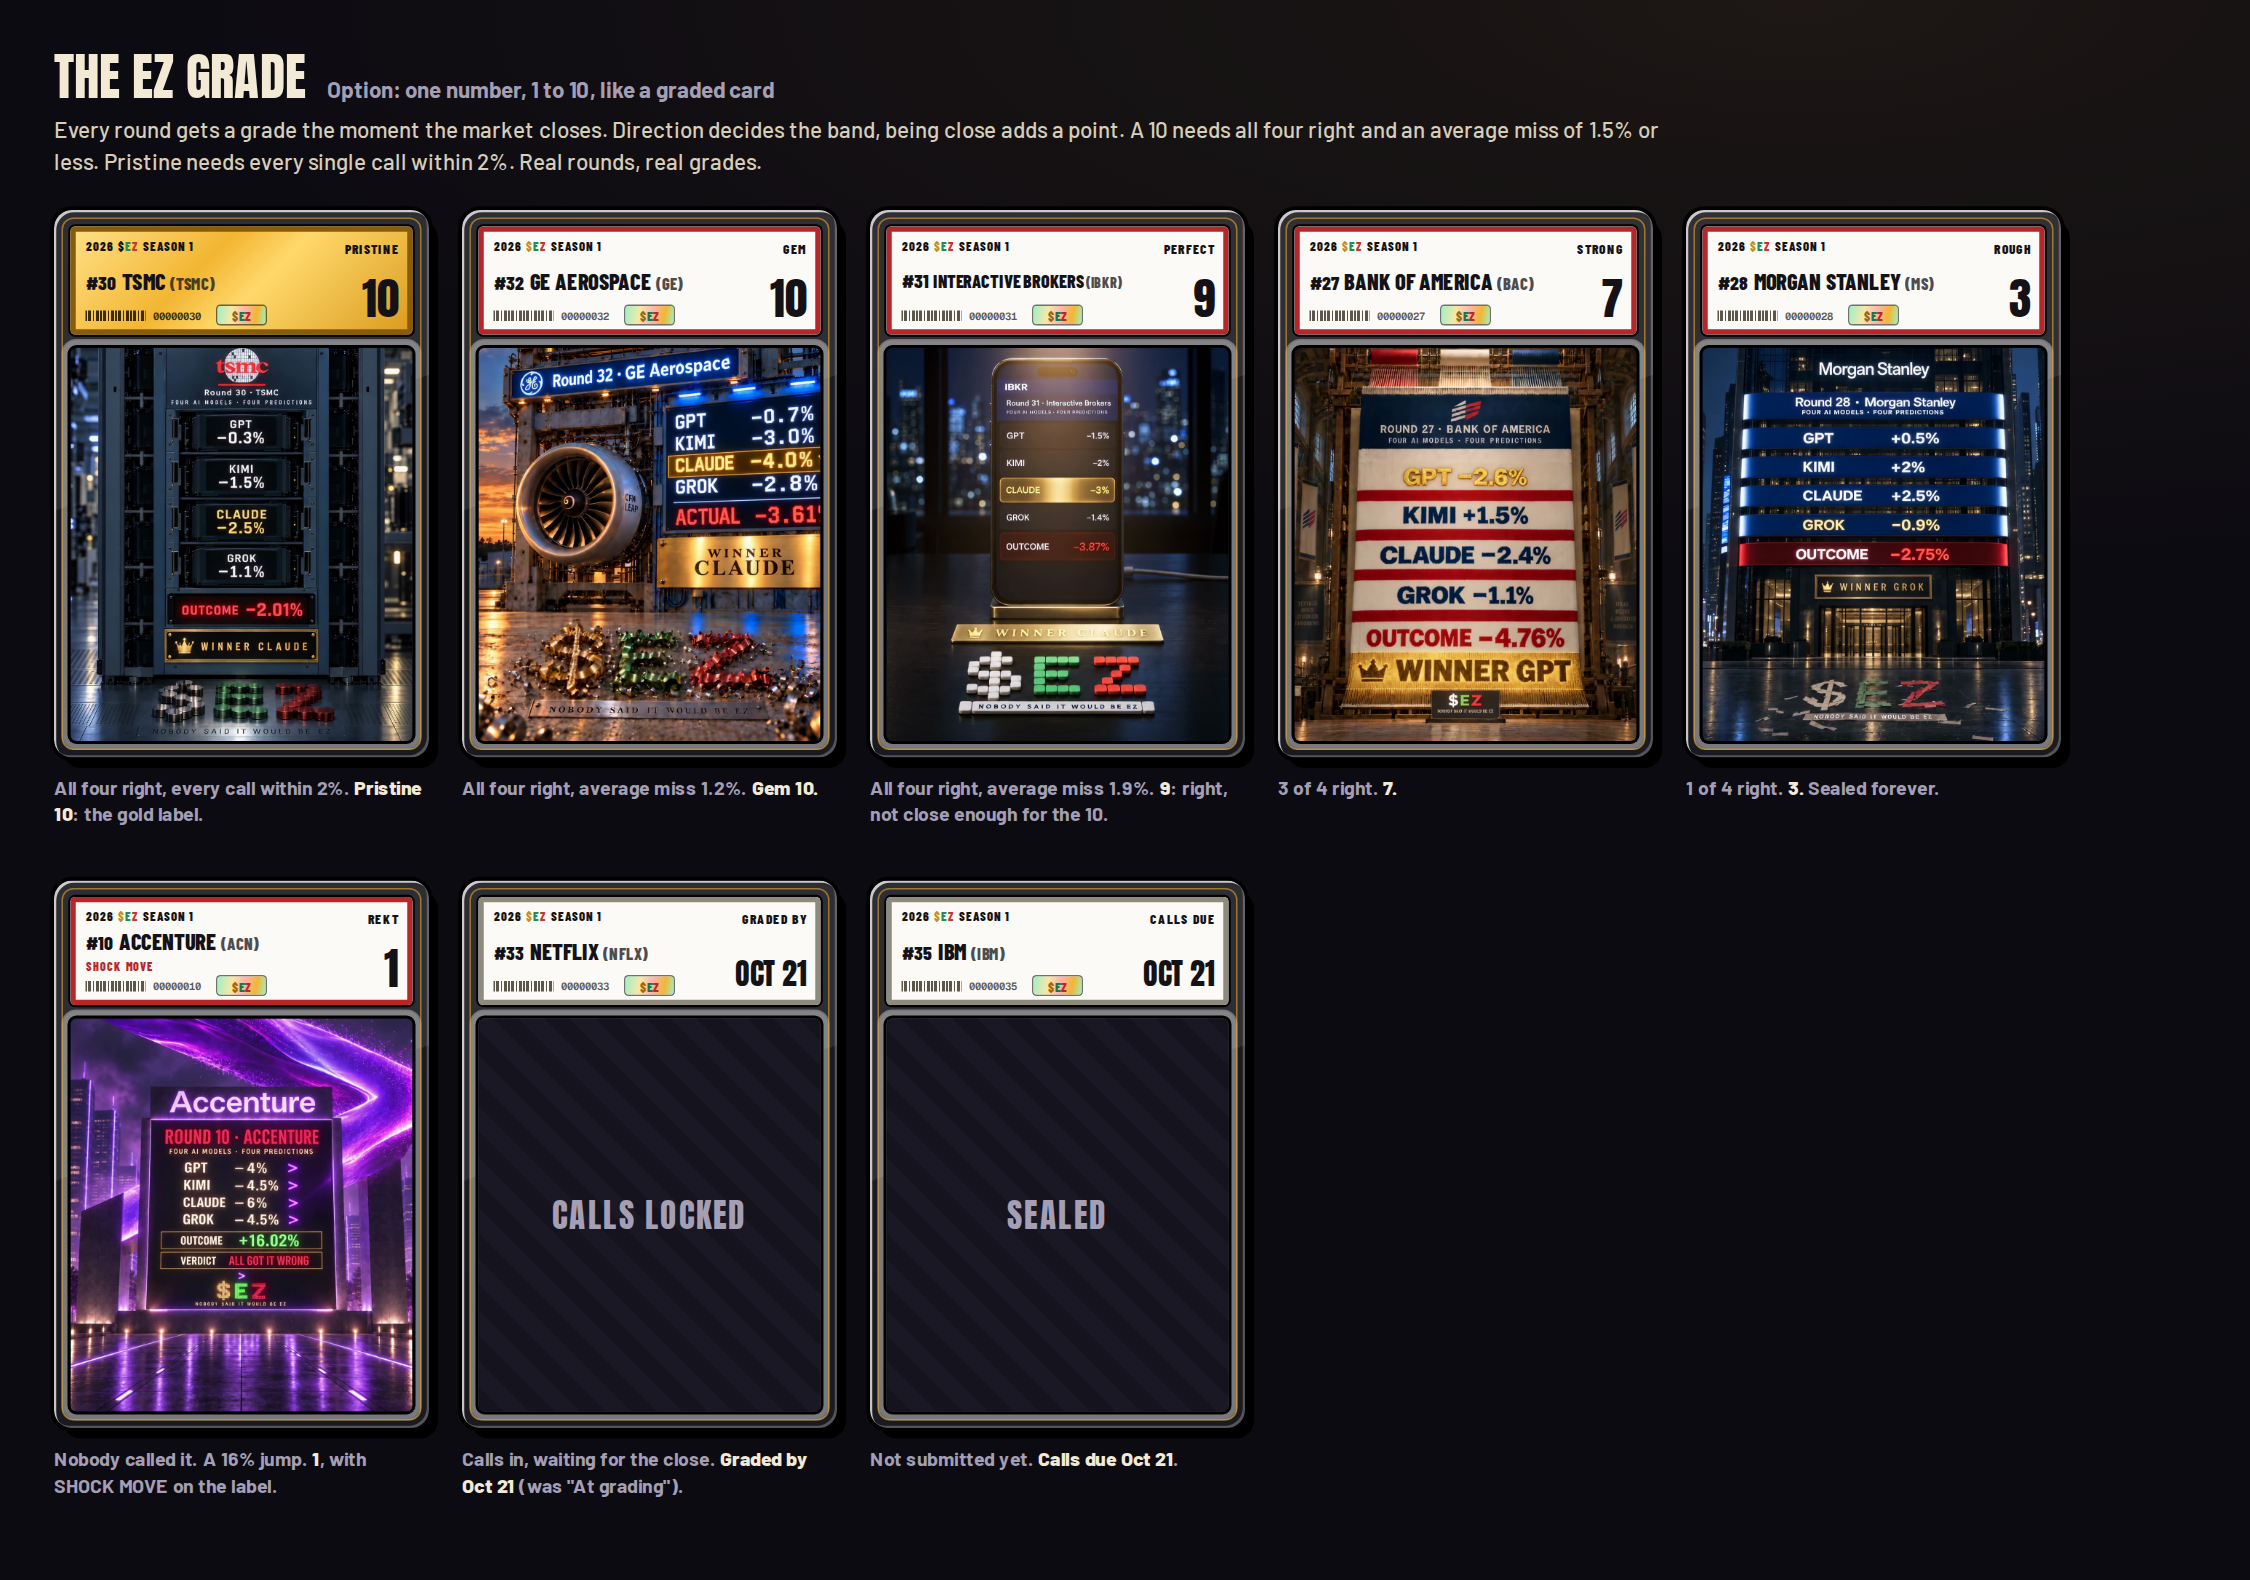
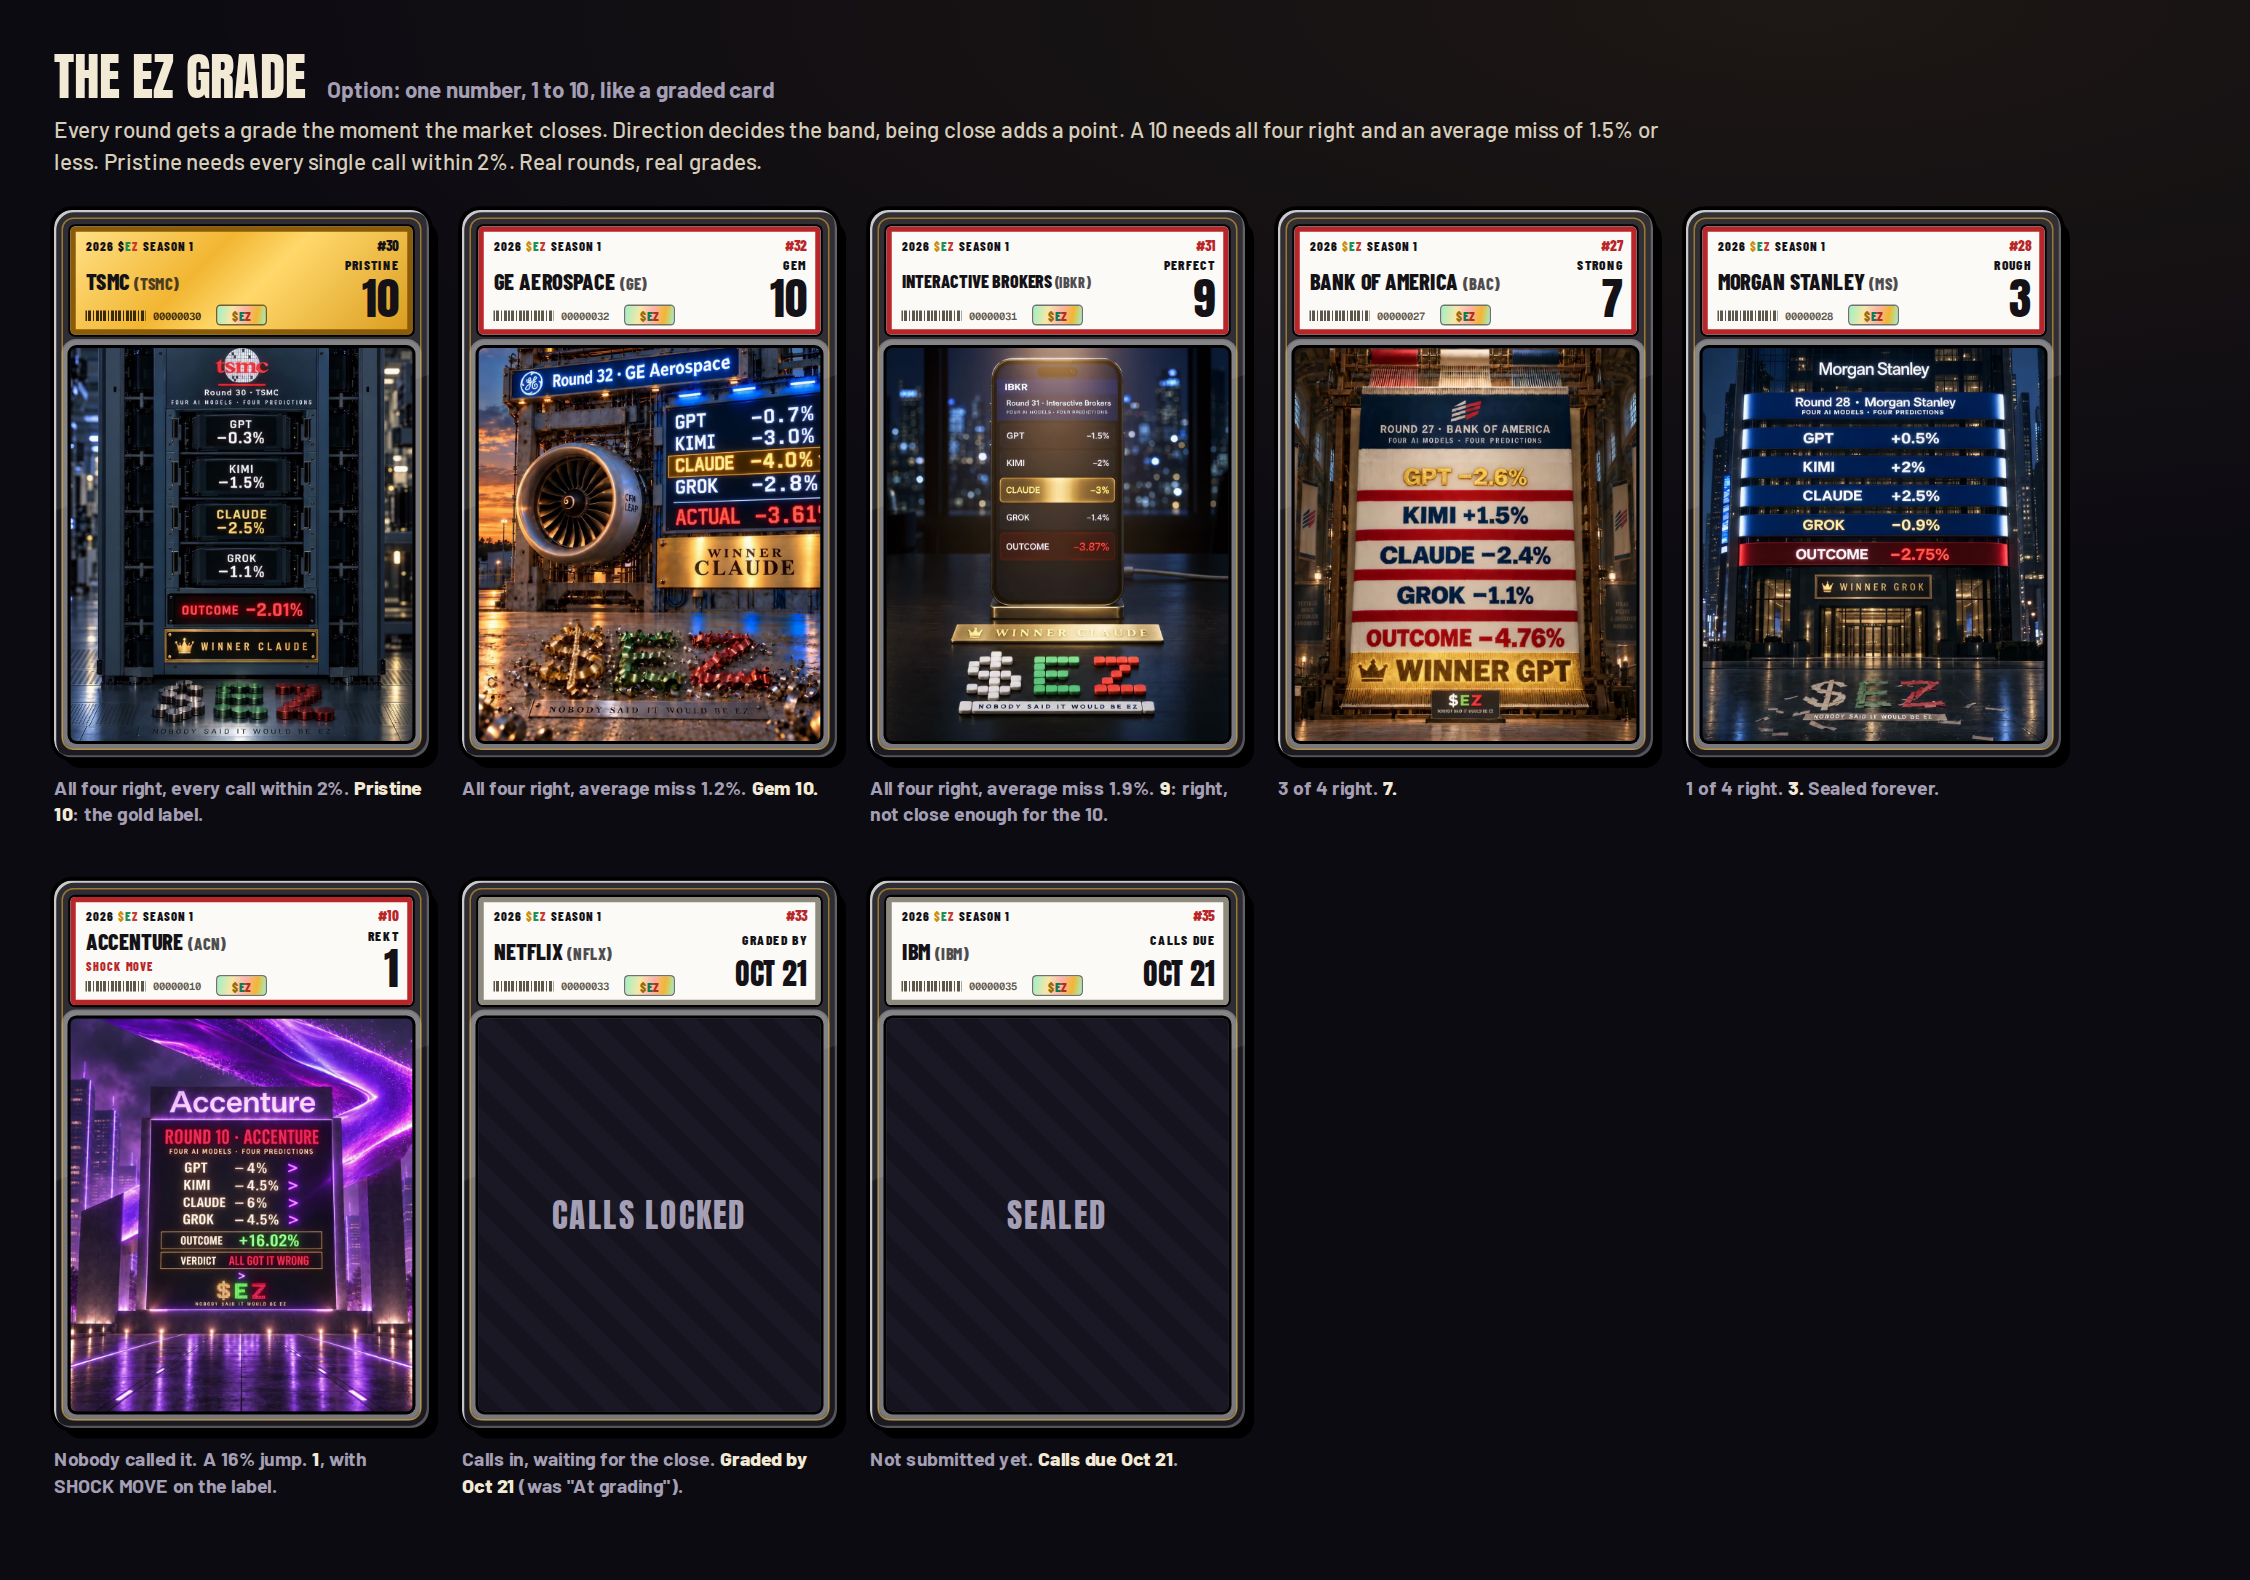
Grade mockup: round number back in the top right, grade word below it
Claude-Session: https://claude.ai/code/session_01KWvAje4hnkBCpPe6R47PoY

diff --git a/ez/tools/concepts/grade-mock.js b/ez/tools/concepts/grade-mock.js
@@ -45,7 +45,7 @@ const css=`${FONTS}*{box-sizing:border-box}body{margin:0;background:#0d0b12;colo
 .box{background:#15131d;border:2px solid #000;box-shadow:5px 6px 0 #000;padding:18px 20px}
 .r .gr.dt{font-size:20px;line-height:1}.r .ds{margin-top:2px}
 .l .nm.lg2{font-size:12px;letter-spacing:0}.l .nm.lg2 small{font-size:9.5px}.l .nm .hn{color:#b8262a;font-size:13px;margin-right:1px}.lab.blk .l .nm.lg2{font-size:12px;letter-spacing:0}.l .nm.lg2 small{font-size:9.5px}.l .nm .hn{color:#141217}
-.holo{position:absolute;left:50%;bottom:6.5px;transform:translateX(-50%);width:32px;height:12px;border-radius:2px;display:flex;align-items:center;justify-content:center;gap:.5px;background:linear-gradient(100deg,#9ff0c4,#f7e7a8 30%,#ffb3ae 55%,#f2b632 80%,#9ff0c4);box-shadow:0 0 0 1px rgba(0,0,0,.55)}.holo i{font:800 9px/1 'Barlow Condensed';font-style:normal;display:block;height:7px;line-height:7px;overflow:visible}.holo .s{color:#9a6a05}.holo .e{color:#17784a}.holo .z{color:#b52c23}.r{padding-bottom:5px}.l{padding-bottom:3px}
+.holo{position:absolute;left:50%;bottom:6.5px;transform:translateX(-50%);width:32px;height:12px;border-radius:2px;display:flex;align-items:center;justify-content:center;gap:.5px;background:linear-gradient(100deg,#9ff0c4,#f7e7a8 30%,#ffb3ae 55%,#f2b632 80%,#9ff0c4);box-shadow:0 0 0 1px rgba(0,0,0,.55)}.holo i{font:800 9px/1 'Barlow Condensed';font-style:normal;display:block;height:7px;line-height:7px;overflow:visible}.holo .s{color:#9a6a05}.holo .e{color:#17784a}.holo .z{color:#b52c23}.r{padding-bottom:5px}.r .no{color:#b8262a;font-size:10px;line-height:1}.r .ds{margin-top:0}.l{padding-bottom:3px}
 .lab.blk .r .ds,.lab.blk .r .gr,.lab.blk .l .vr{color:#141217!important}
 table{border-collapse:collapse;width:100%;font:500 14px/1.2 Barlow}th{font:800 11px/1 'Barlow Condensed';letter-spacing:.14em;text-transform:uppercase;color:#a49fb4;text-align:left;padding:6px 8px;border-bottom:1.5px solid #3a3546}
 td{padding:7px 8px;border-bottom:1px solid #2a2633}td.g{font:400 24px/1 Anton;width:52px}td.w{font:800 14px/1 'Barlow Condensed';letter-spacing:.08em;color:#f2b632}td.h{color:#a49fb4;font-size:13px}td.p{font:400 20px/1 Anton;text-align:right}
@@ -62,8 +62,8 @@ td{padding:7px 8px;border-bottom:1px solid #2a2633}td.g{font:400 24px/1 Anton;wi
 .pill{display:inline-block;padding:3px 8px;border:2px solid #000;font:800 11px/1 'Barlow Condensed';letter-spacing:.1em;background:#4fe39a;color:#03140a}`;
 function slab(o){const g=o.g;const cls=o.pr?'lab blk':(o.state?'lab sub2':'lab');
  /* (owner, 2026-10-21) the earlier layout, with "#n" in front of the company name and the ticker after it */
- const right=o.state?`<span class="ds">${o.state[0]}</span><span class="gr dt">${o.state[1]}</span>`:`<span class="ds">${o.pr?'PRISTINE':WORD[g]}</span><span class="gr">${g}</span>`;
- return `<div><div class="slab"><div class="${cls}"><div class="l"><span class="y">2026 <i class="s">$</i><i class="e">E</i><i class="z">Z</i> SEASON 1</span><span class="nm${(o.co+o.tk).length>20?' lg2':''}"><span class="hn">#${o.n}</span> ${o.co}${o.tk?` <small>(${o.tk})</small>`:''}</span>${o.vr?`<span class="vr">${o.vr}</span>`:''}<span class="cb"><i></i>${String(o.n).padStart(8,'0')}</span></div><span class="holo"><i class="s">$</i><i class="e">E</i><i class="z">Z</i></span><div class="r">${right}</div></div>
+ const right=`<span class="no">#${o.n}</span>`+(o.state?`<span class="ds">${o.state[0]}</span><span class="gr dt">${o.state[1]}</span>`:`<span class="ds">${o.pr?'PRISTINE':WORD[g]}</span><span class="gr">${g}</span>`);
+ return `<div><div class="slab"><div class="${cls}"><div class="l"><span class="y">2026 <i class="s">$</i><i class="e">E</i><i class="z">Z</i> SEASON 1</span><span class="nm${(o.co+o.tk).length>20?' lg2':''}">${o.co}${o.tk?` <small>(${o.tk})</small>`:''}</span>${o.vr?`<span class="vr">${o.vr}</span>`:''}<span class="cb"><i></i>${String(o.n).padStart(8,'0')}</span></div><span class="holo"><i class="s">$</i><i class="e">E</i><i class="z">Z</i></span><div class="r">${right}</div></div>
  ${o.img?`<div class="face"><img src="media/${o.img}.jpg"></div>`:`<div class="face empty">${o.empty||''}</div>`}</div><p class="cap">${o.cap}</p></div>`}
 const poster=n=>FILMS[n]&&FILMS[n].p;
 const pick=[30,32,31,27,28,10];
